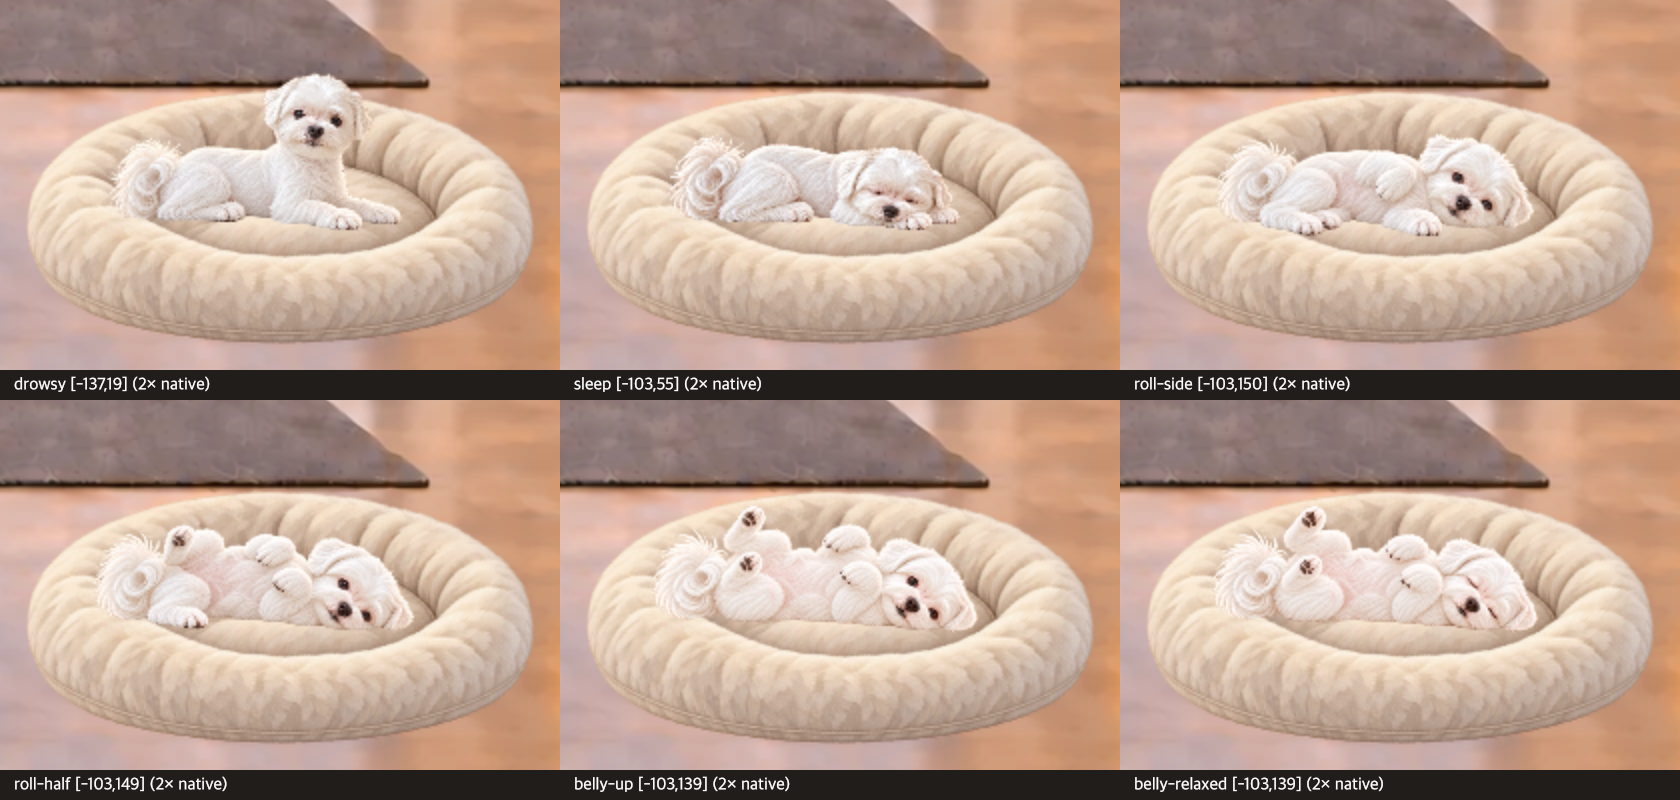
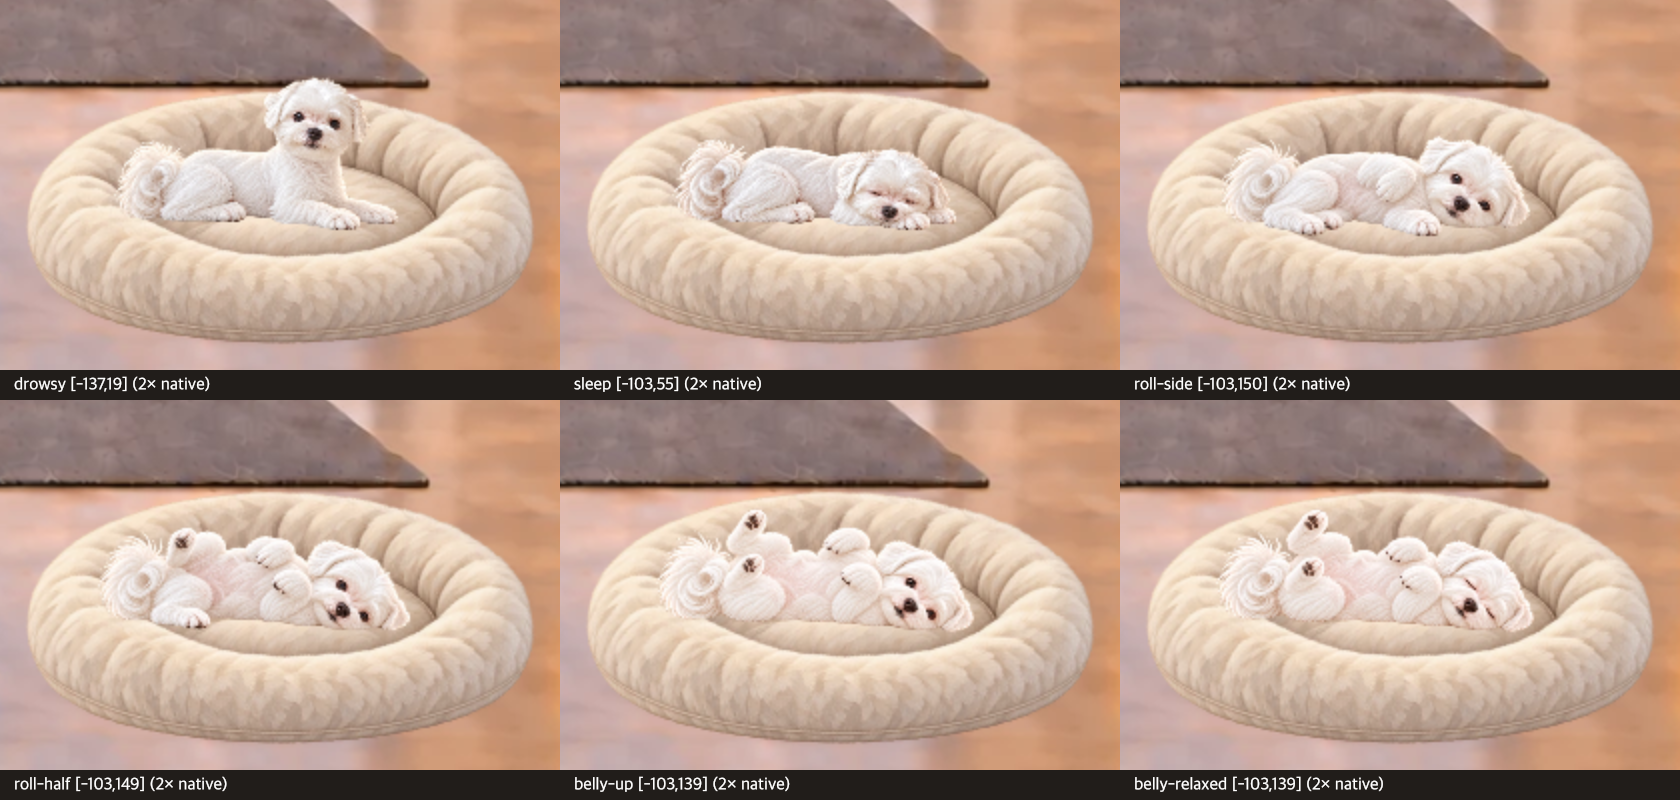
Calibrate bed motion records with controller depth

diff --git a/asset-sources/milky-photo-motions/bed/README.md b/asset-sources/milky-photo-motions/bed/README.md
@@ -17,6 +17,8 @@ The actual album photographs 26, 12 and 21 informed the gestures. The accepted a
 
 `bed-registration.json` records source/runtime hashes, alpha measurements, raw anatomical landmarks and the approved rigid runtime offsets. All coordinates use the logical 1536 × 1024 canvas, not the half-size exported pixels. In the chin poses, the body's support rests on the higher inner cushion while the head reaches the front rim; the virtual registration anchor is deliberately separate from the visible support landmarks.
 
-Independent art QA and root reviewed the actual bed composites at the real scene scale. The final chin lies at approximately scene `(1466.55, 879.60)`, with the foreground rim at `880.73`; its eyes and nose remain visible. The two chin frames share one fixed translation. All four roll frames share one horizontal registration and use back/cheek contacts rather than raised-paw bounds. `qa-chin-bed-contact.png` and `qa-roll-bed-sequence.png` are native canvas diagnostic compositions, not browser screenshots.
+Independent art QA and root reviewed the actual bed composites at the real scene scale, including the controller’s CSS-rounded depth scale `0.9742` (logical-to-scene scale `0.107784879125`). The final chin lies at approximately scene `(1465.8684, 880.3055)`, with the foreground rim at `880.7853`; its eyes and nose remain visible, with the nose at scene Y `874.7006`. The two chin frames share the fixed translation `[-103, 240]` and virtual registration anchor `[898, 730]`. The rim contact expressed within the bed rectangle is `[0.599493735, 0.650038400]`. All four roll frames share one horizontal registration and use back/cheek contacts rather than raised-paw bounds. `qa-chin-bed-contact.png` and `qa-roll-bed-sequence.png` are native canvas diagnostic compositions, not browser screenshots.
+
+The stored QA composites include controller depth and supersede the earlier provisional non-depth compositions and `[-103, 230]` chin registration. Runtime artwork, generation prompts and their hashes are unchanged.
 
 Earlier chin attempts rested on the dog's own paws or changed the scale too much. The files named `rejected-*` preserve those selected comparison originals; their prompts are retained as production history and they are never exported to runtime. Other superseded prompts are also historical. Natural timing, transitions, cancellation and actual browser verification belong to the separate integration change.
